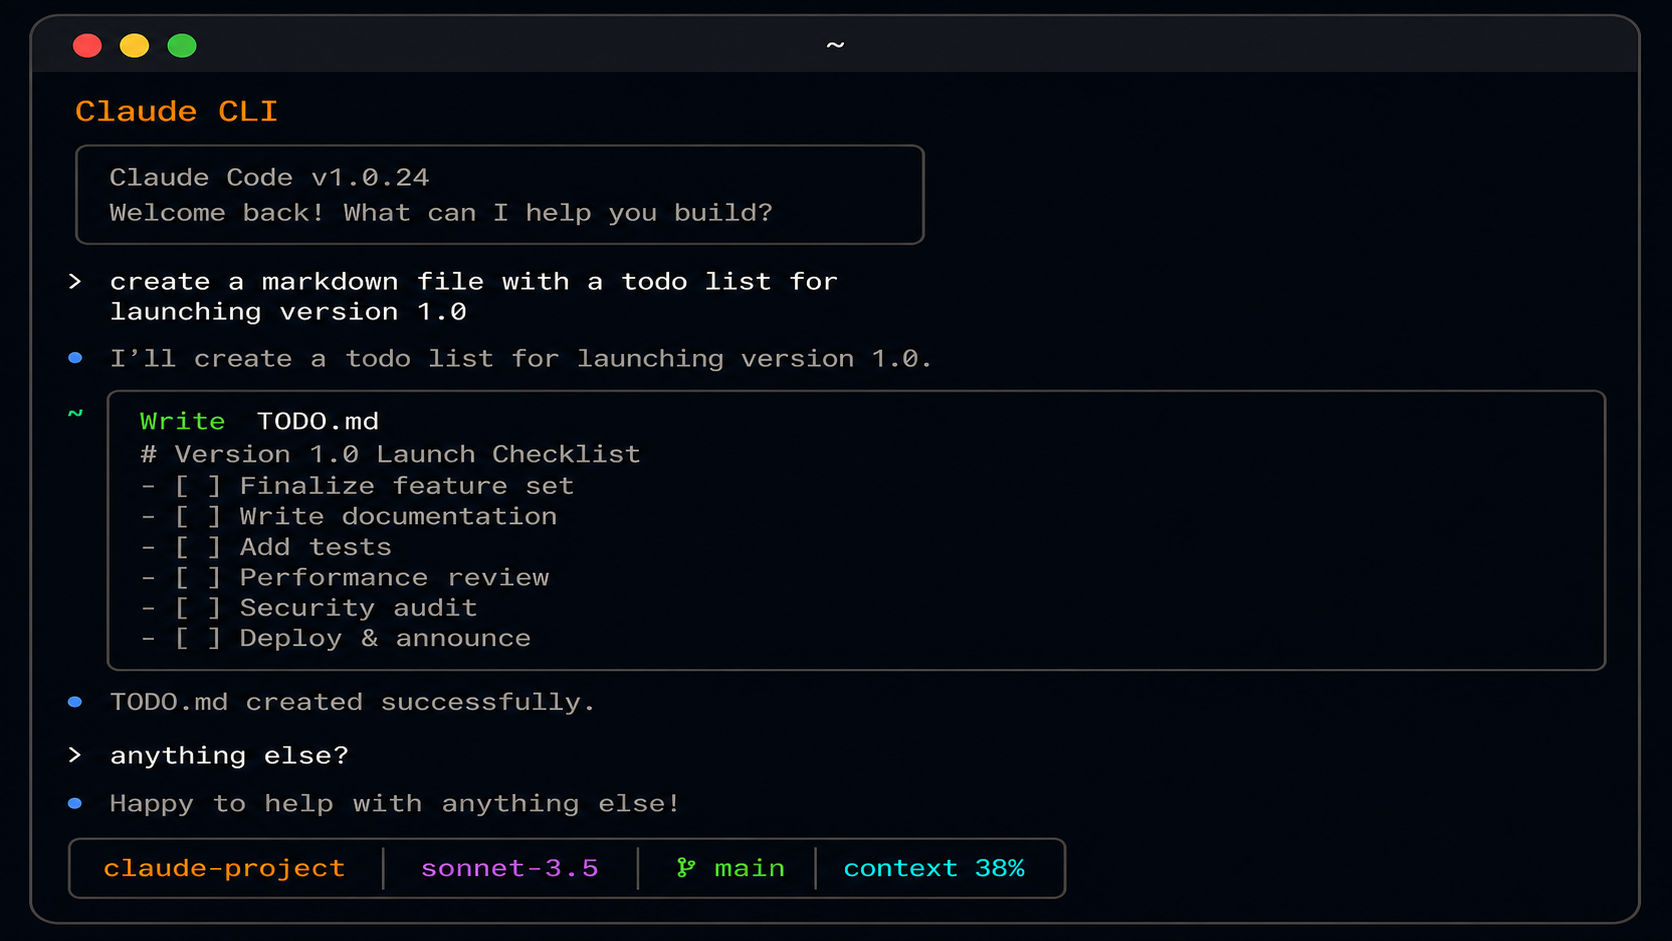
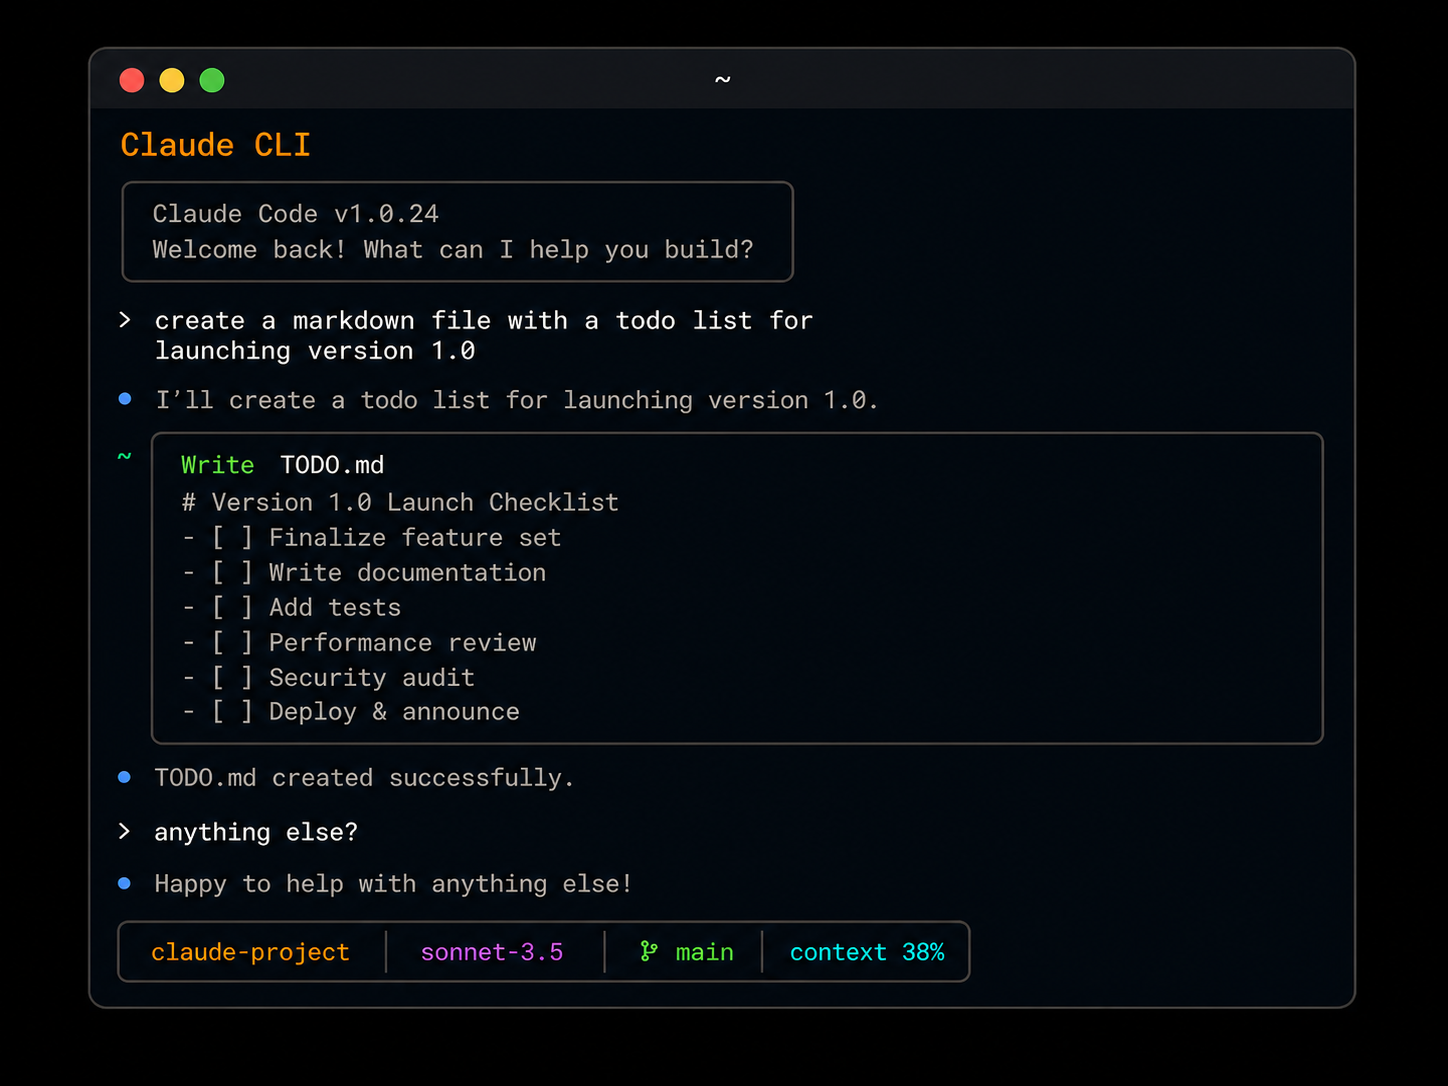
docs: fix Claude CLI screenshot proportions

Changed region(s): [[0.0, 0.0, 0.9945, 0.9862], [0.9012, 0.4006, 0.9634, 0.7396]]

diff --git a/README.md b/README.md
@@ -65,7 +65,9 @@ purple through blue, cyan, green, and yellow.
 Claude Code's status line is rendered through Starship so project, model,
 branch, context, and cost feel like part of the same terminal.
 
-![Claude CLI with a Starship-rendered status line](screenshots/claude-cli.png)
+<p align="center">
+  <img src="screenshots/claude-cli.png" width="820" alt="Claude CLI with a Starship-rendered status line">
+</p>
 
 ## 🧪 Inside the lab
 
